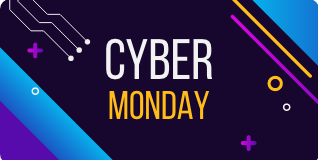
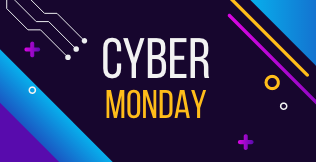
fix img

diff --git a/index.html b/index.html
@@ -276,7 +276,7 @@
             <div class="row bg-white shadow border-1 mx-0 mb-5">
                 <div class="col-lg-6 px-0">
                     <img src="images/banner-desktop.png" alt="Offers" class="w-100 d-lg-block d-none">
-                    <img src="images/banner-mobile.png" alt="Offers" class="w-100 d-lg-none d-block">
+                    <img src="images/banner-mobile.png" alt="Offers" class="w-100 d-lg-none d-block img-top">
                 </div>
                 <div class="col-lg-6 d-lg-flex align-items-center text-lg-start text-center p-lg-0 p-5">
                     <p class="font-family-second font-size-25px fst-italic pe-lg-5 pe-0 pb-lg-0 pb-4">Hurry up! From <span class="fw-bold">29.11.2021 - 13.12.2021</span></p>

diff --git a/css/style.scss b/css/style.scss
@@ -32,6 +32,12 @@
         }
     }
     
+    .img-top {
+        border-radius: 10px;
+        border-bottom-left-radius: 0;
+        border-bottom-right-radius: 0;
+    }
+    
     .btn-primary {
         font-weight: 400;
         font-size: 20px;

diff --git a/css/style.css b/css/style.css
@@ -140,6 +140,12 @@ a {
   height: 30px;
 }
 
+.img-top {
+  border-radius: 10px;
+  border-bottom-left-radius: 0;
+  border-bottom-right-radius: 0;
+}
+
 .btn-primary {
   font-weight: 400;
   font-size: 20px;
